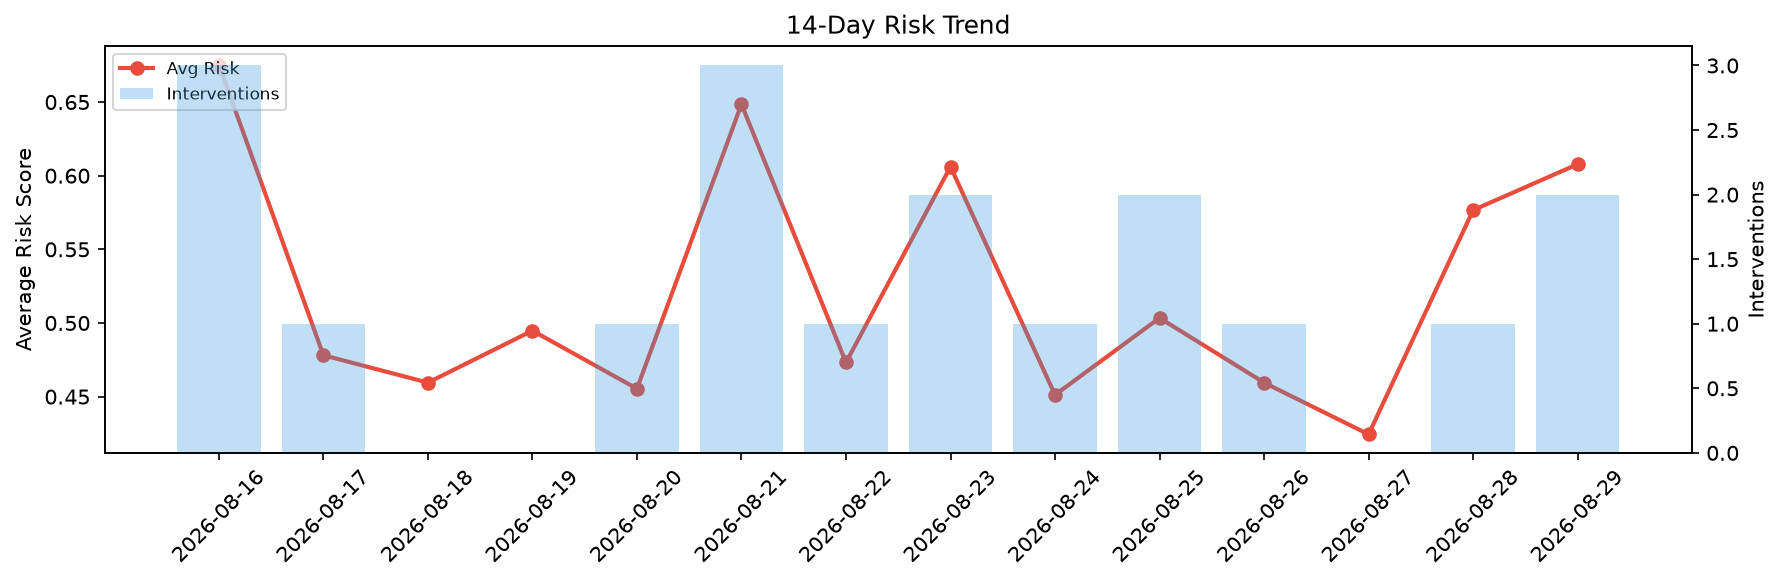
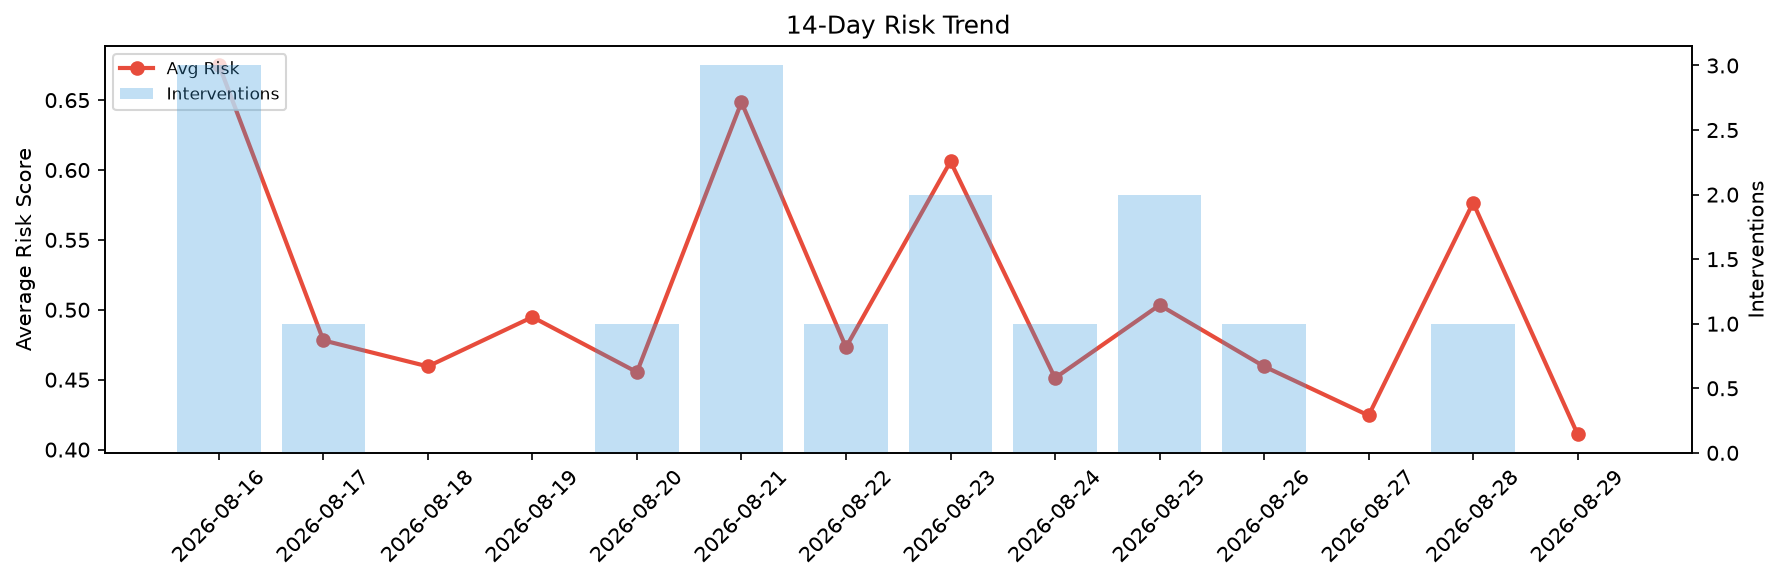
agent-improvement: daily cycle 2026-08-29T09:00

diff --git a/logs/2026-08-29.md b/logs/2026-08-29.md
@@ -1,6 +1,6 @@
 # Agent Improvement Report — 2026-08-29
 
-**Cycle ID:** `fba3c9d5` | **Avg Risk:** 0.6078 | **Interventions:** 2/4
+**Cycle ID:** `5596ed0e` | **Avg Risk:** 0.4109 | **Interventions:** 0/4
 
 ![Dashboard](2026-08-29_dashboard.png)
 
@@ -10,18 +10,18 @@
 
 | Domain | Risk Score | Decision | Alerts |
 |--------|-----------|----------|--------|
-| code_review | 0.8501 | intervene | complexity, duplication, coverage |
-| incident_response | 0.5178 | monitor | none |
-| data_pipeline | 0.6947 | intervene | schema_drift, volume_anomaly |
-| deployment | 0.3685 | monitor | canary_error |
+| code_review | 0.1802 | monitor | none |
+| incident_response | 0.4763 | monitor | severity |
+| data_pipeline | 0.3984 | monitor | schema_drift |
+| deployment | 0.5887 | monitor | canary_error |
 
 ## Delta vs Yesterday
 
 | Domain | Today | Yesterday | Change |
 |--------|-------|-----------|--------|
-| code_review | 0.8501 | 0.516 | 📈 64.7% |
-| incident_response | 0.5178 | 0.7513 | 📉 -31.1% |
-| data_pipeline | 0.6947 | 0.5301 | 📈 31.1% |
-| deployment | 0.3685 | 0.5088 | 📉 -27.6% |
+| code_review | 0.1802 | 0.516 | 📉 -65.1% |
+| incident_response | 0.4763 | 0.7513 | 📉 -36.6% |
+| data_pipeline | 0.3984 | 0.5301 | 📉 -24.8% |
+| deployment | 0.5887 | 0.5088 | 📈 15.7% |
 
-**Refinement:** `{'adjustment': 'maintain', 'trend': 'improving', 'window': 4}`
+**Refinement:** `{'adjustment': 'tighten_thresholds', 'trend': 'degrading', 'window': 4}`
